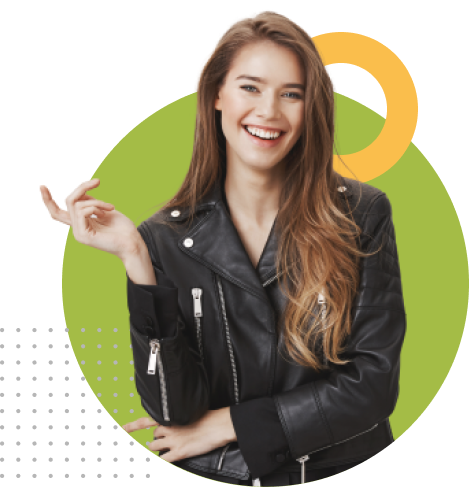
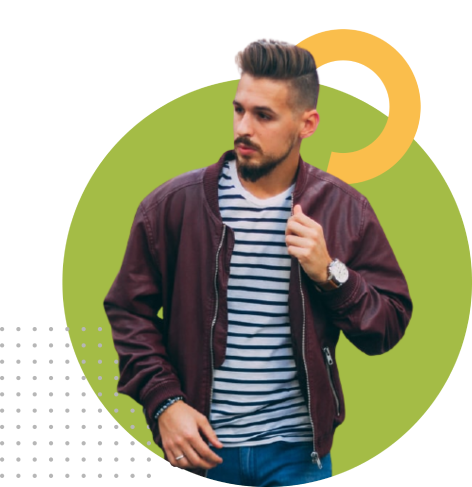
images updated and tailwind linked

diff --git a/index.html b/index.html
@@ -6,6 +6,12 @@
     <meta http-equiv="X-UA-Compatible" content="IE=edge">
     <meta name="viewport" content="width=device-width, initial-scale=1.0">
     <title>Penguin Fashion</title>
+
+
+    <!-- tailwind cdn link -->
+
+
+    <link href="https://unpkg.com/tailwindcss@^2/dist/tailwind.min.css" rel="stylesheet">
 </head>
 
 <body>
